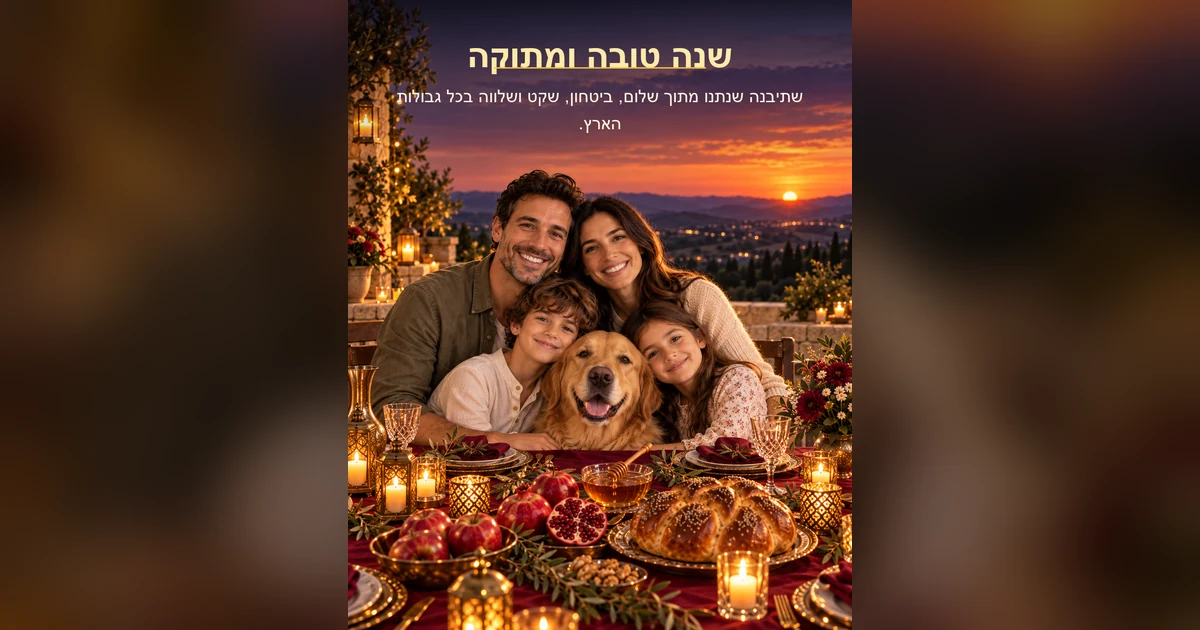
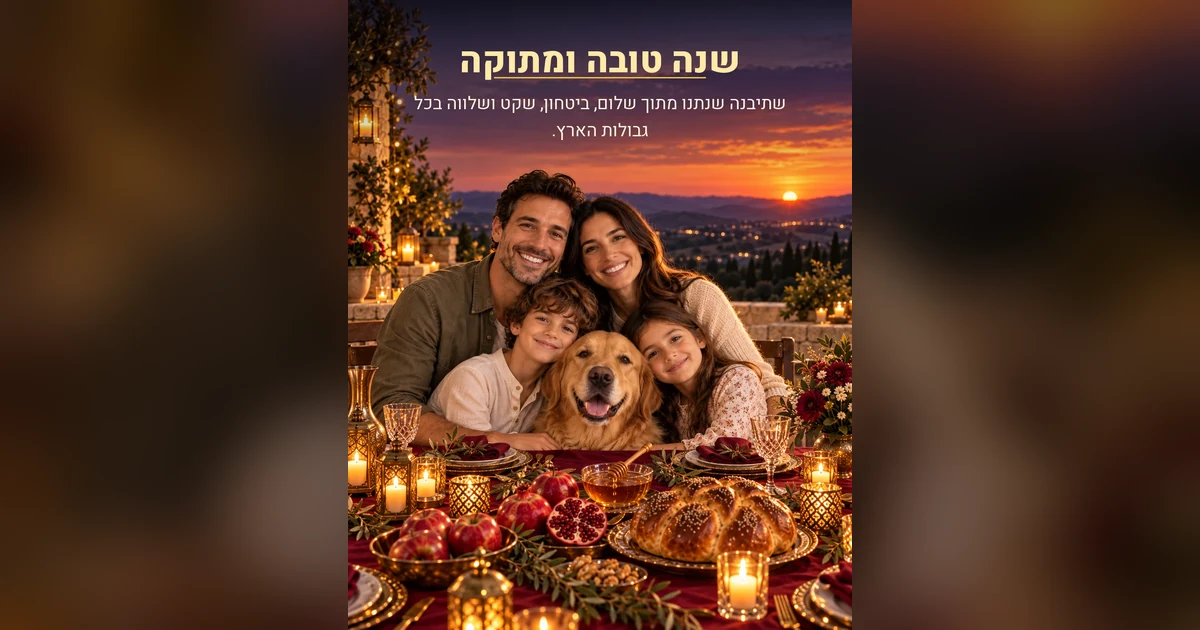
feat: reveal a finished card in the slider, and add a light text palette
The comparison slider was ending on an unlettered picture, which gives away no
payoff — the whole promise of the page is a finished greeting card. after2 and
after3 now carry a composited greeting, with the raw AI output kept alongside
as *-clean.webp to re-bake from.

That required a second text palette. Gold on a dark scrim reads over a dusk
photograph and destroys the watercolour's pale sky; ink on a cream scrim does
the reverse. The studio now offers both and the demo images use one each.

Also lifts the title leading from 1.18 to 1.30 and drops the rule under it,
which was cutting through the descender of ק at the old offset.

Changed region(s): [[0.3392, 0.0603, 0.6783, 0.2111]]

diff --git a/rosh-hashana-moments/index.html b/rosh-hashana-moments/index.html
@@ -1447,6 +1447,15 @@
                                 <button type="button" data-pos="bottom" aria-pressed="false">למטה</button>
                             </div>
                         </div>
+
+                        <div class="field">
+                            <label>סגנון הכיתוב</label>
+                            <div class="seg" id="styleSeg">
+                                <button type="button" data-style="dark" aria-pressed="true">זהב על כהה</button>
+                                <button type="button" data-style="light" aria-pressed="false">דיו על בהיר</button>
+                            </div>
+                            <p class="family-hint">לתמונות בהירות, כמו הסגנון המאוייר, בחרו "דיו על בהיר"</p>
+                        </div>
                     </div>
 
                     <div class="studio-stage">
@@ -1919,9 +1928,26 @@ ${NOTEXT_GEM}`
             }
         ];
 
+        /* Two palettes, because one does not survive both looks: a dark scrim
+           with gold lettering reads on a dusk photograph and ruins the pale
+           sky of the watercolour, and the ink-on-cream pair does the reverse. */
+        const TEXT_STYLES = {
+            dark: {
+                scrim: [6, 2, 4], scrimAlpha: 0.78,
+                title: '#FFE9A8', body: '#FFF4E0', sign: '#F5C542',
+                rule: 'rgba(245,197,66,', shadow: 'rgba(0,0,0,0.55)'
+            },
+            light: {
+                scrim: [255, 248, 232], scrimAlpha: 0.7,
+                title: '#7A4410', body: '#4A3418', sign: '#8A5A18',
+                rule: 'rgba(184,134,11,', shadow: 'rgba(255,250,235,0.75)'
+            }
+        };
+
         const studio = {
             img: null,
             pos: 'top',
+            style: 'dark',
             el: {
                 dropzone: document.getElementById('dropzone'),
                 dzTitle: document.getElementById('dzTitle'),
@@ -1932,6 +1958,7 @@ ${NOTEXT_GEM}`
                 body: document.getElementById('gBody'),
                 family: document.getElementById('gFamily'),
                 posSeg: document.getElementById('posSeg'),
+                styleSeg: document.getElementById('styleSeg'),
                 canvas: document.getElementById('cardCanvas'),
                 empty: document.getElementById('stageEmpty'),
                 download: document.getElementById('btnDownload')
@@ -2022,6 +2049,15 @@ ${NOTEXT_GEM}`
             draw();
         });
 
+        studio.el.styleSeg.addEventListener('click', (e) => {
+            const b = e.target.closest('button[data-style]');
+            if (!b) return;
+            studio.style = b.dataset.style;
+            studio.el.styleSeg.querySelectorAll('button')
+                .forEach((x) => x.setAttribute('aria-pressed', String(x === b)));
+            draw();
+        });
+
         // the hero field seeds the signature
         familyInput.addEventListener('input', () => {
             const v = (familyInput.value || '').trim();
@@ -2095,7 +2131,7 @@ ${NOTEXT_GEM}`
             const bodyLines = body ? wrapLines(ctx, body, maxW) : [];
 
             const lhBody = fsBody * 1.5;
-            const blockH = (title ? fsTitle * 1.18 : 0)
+            const blockH = (title ? fsTitle * 1.30 : 0)
                 + (bodyLines.length ? fsBody * 0.5 + bodyLines.length * lhBody : 0)
                 + (family ? fsFam * 1.7 : 0);
 
@@ -2103,12 +2139,14 @@ ${NOTEXT_GEM}`
             // against a bright sky, a scrim never does
             const pad = H * 0.055;
             const scrimH = Math.min(H * 0.62, blockH + pad * 2.4);
+            const T = TEXT_STYLES[studio.style] || TEXT_STYLES.dark;
+            const sc = T.scrim.join(',');
             const g = top
                 ? ctx.createLinearGradient(0, 0, 0, scrimH)
                 : ctx.createLinearGradient(0, H, 0, H - scrimH);
-            g.addColorStop(0, 'rgba(6,2,4,0.78)');
-            g.addColorStop(0.55, 'rgba(6,2,4,0.38)');
-            g.addColorStop(1, 'rgba(6,2,4,0)');
+            g.addColorStop(0, `rgba(${sc},${T.scrimAlpha})`);
+            g.addColorStop(0.55, `rgba(${sc},${T.scrimAlpha * 0.49})`);
+            g.addColorStop(1, `rgba(${sc},0)`);
             ctx.fillStyle = g;
             ctx.fillRect(0, top ? 0 : H - scrimH, W, scrimH);
 
@@ -2117,28 +2155,28 @@ ${NOTEXT_GEM}`
 
             if (title) {
                 ctx.font = `800 ${fsTitle}px Heebo, Arial, sans-serif`;
-                ctx.fillStyle = '#FFE9A8';
-                ctx.shadowColor = 'rgba(0,0,0,0.5)';
+                ctx.fillStyle = T.title;
+                ctx.shadowColor = T.shadow;
                 ctx.shadowBlur = fsTitle * 0.22;
                 ctx.fillText(title, cx, y);
                 ctx.shadowBlur = 0;
-                y += fsTitle * 1.18;
+                y += fsTitle * 1.30;
 
                 // gold rule under the title
                 const rw = Math.min(maxW * 0.5, ctx.measureText(title).width * 0.8);
                 const rg = ctx.createLinearGradient(cx - rw / 2, 0, cx + rw / 2, 0);
-                rg.addColorStop(0, 'rgba(245,197,66,0)');
-                rg.addColorStop(0.5, 'rgba(245,197,66,0.95)');
-                rg.addColorStop(1, 'rgba(245,197,66,0)');
+                rg.addColorStop(0, T.rule + '0)');
+                rg.addColorStop(0.5, T.rule + '0.95)');
+                rg.addColorStop(1, T.rule + '0)');
                 ctx.fillStyle = rg;
-                ctx.fillRect(cx - rw / 2, y - fsTitle * 0.28, rw, Math.max(1, W * 0.0016));
+                ctx.fillRect(cx - rw / 2, y - fsTitle * 0.14, rw, Math.max(1, W * 0.0016));
             }
 
             if (bodyLines.length) {
                 y += fsBody * 0.5;
                 ctx.font = `400 ${fsBody}px Heebo, Arial, sans-serif`;
-                ctx.fillStyle = '#FFF4E0';
-                ctx.shadowColor = 'rgba(0,0,0,0.55)';
+                ctx.fillStyle = T.body;
+                ctx.shadowColor = T.shadow;
                 ctx.shadowBlur = fsBody * 0.3;
                 bodyLines.forEach((ln) => { ctx.fillText(ln, cx, y); y += lhBody; });
                 ctx.shadowBlur = 0;
@@ -2147,8 +2185,8 @@ ${NOTEXT_GEM}`
             if (family) {
                 y += fsFam * 0.5;
                 ctx.font = `700 ${fsFam}px Heebo, Arial, sans-serif`;
-                ctx.fillStyle = '#F5C542';
-                ctx.shadowColor = 'rgba(0,0,0,0.5)';
+                ctx.fillStyle = T.sign;
+                ctx.shadowColor = T.shadow;
                 ctx.shadowBlur = fsFam * 0.3;
                 ctx.fillText(family, cx, y);
                 ctx.shadowBlur = 0;

diff --git a/rosh-hashana-moments/images/README.md b/rosh-hashana-moments/images/README.md
@@ -45,18 +45,25 @@ page never shows a broken image if a webp is renamed or lost.
 `maganim-center.webp`, `oref-haifa.webp`, `shaagat-hari-logo.webp` are copies of
 the org logos in the repo root `/images`. Update both if a logo changes.
 
-## A note on the greeting
+## Why some files come in pairs
 
-The three prompts no longer ask the model to write Hebrew — they ask it to
-leave the top 25% of the frame clean. The greeting is composited in the page's
-studio section instead, so spelling is always correct and one generated image
-can produce a differently-worded card per family.
+`after2.webp` / `after2-clean.webp` (and the same for `after3`).
 
-`after2.webp` is the raw AI output: no lettering, clean sky across the top,
-exactly what the current prompt asks for. The comparison card therefore shows
-the pre-studio state, and the studio section below it demonstrates the greeting
-being added.
+The `-clean` file is the raw AI output: no lettering, clean sky across the top,
+exactly what the current prompt asks for. The file without the suffix is that
+same image with a greeting composited on, and it is the one the comparison
+slider shows — sliding to an unlettered picture gives away no payoff, so the
+demo reveals a finished card.
 
-`og-preview.webp` is the opposite — it carries a composited greeting, because a
-WhatsApp preview should show the finished card rather than an unlettered
-intermediate.
+Keep the `-clean` originals. They are what you re-bake from if the wording,
+palette or position changes.
+
+`og-preview.webp` is built from the finished `after2.webp` for the same reason:
+a WhatsApp preview should show the product, not an intermediate.
+
+## Two text palettes
+
+The studio renders in one of two: **gold on a dark scrim** for photographs, and
+**ink on a cream scrim** for the illustrated style. A dark scrim over the
+watercolour's pale sky ruins it, and cream lettering disappears into it — one
+palette cannot serve both. `after2` uses dark, `after3` uses light.
